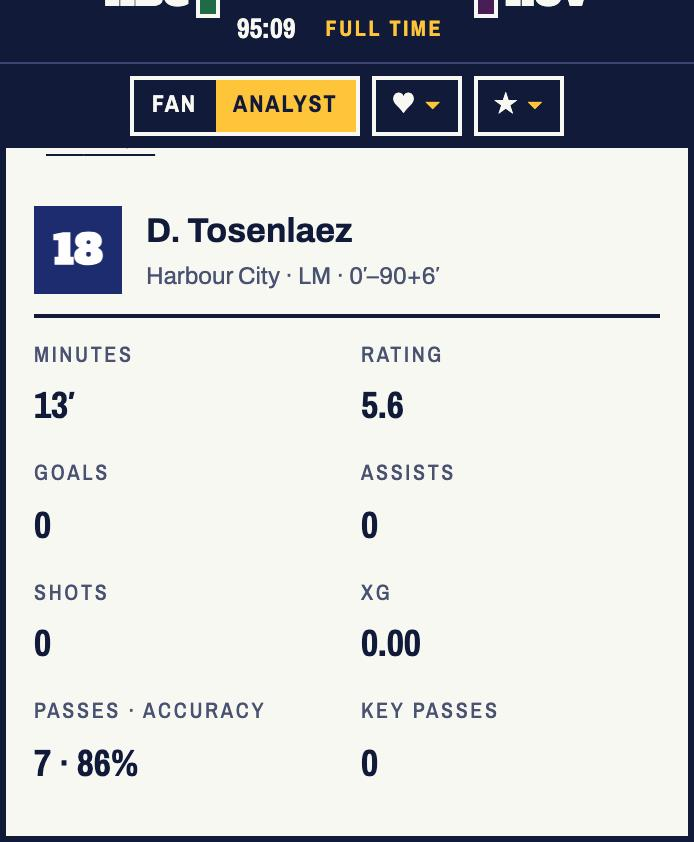
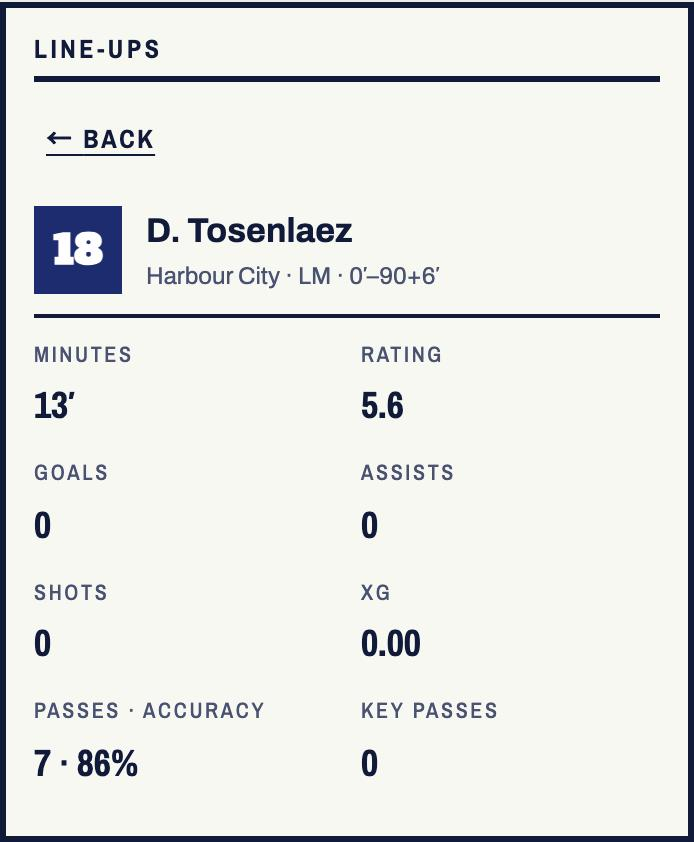
Ax59: keep the player view's Back button clear of the sticky header

Changed region(s): [[0.0, 0.0, 0.9986, 0.1853]]

diff --git a/apps/web/src/styles/pitch-board.css b/apps/web/src/styles/pitch-board.css
@@ -48,3 +48,5 @@
 .pd-nm { font-weight: 700; font-size: 17px; overflow-wrap: anywhere; }
 .pd-hd small { font-size: 12px; }
 .roster-detail .player-stats { grid-template-columns: repeat(auto-fill, minmax(96px, 1fr)); }
+/* Back gets focus when the card swaps; keep it clear of the sticky match header when that scrolls it into view. */
+.pd-back { scroll-margin-top: 280px; }
